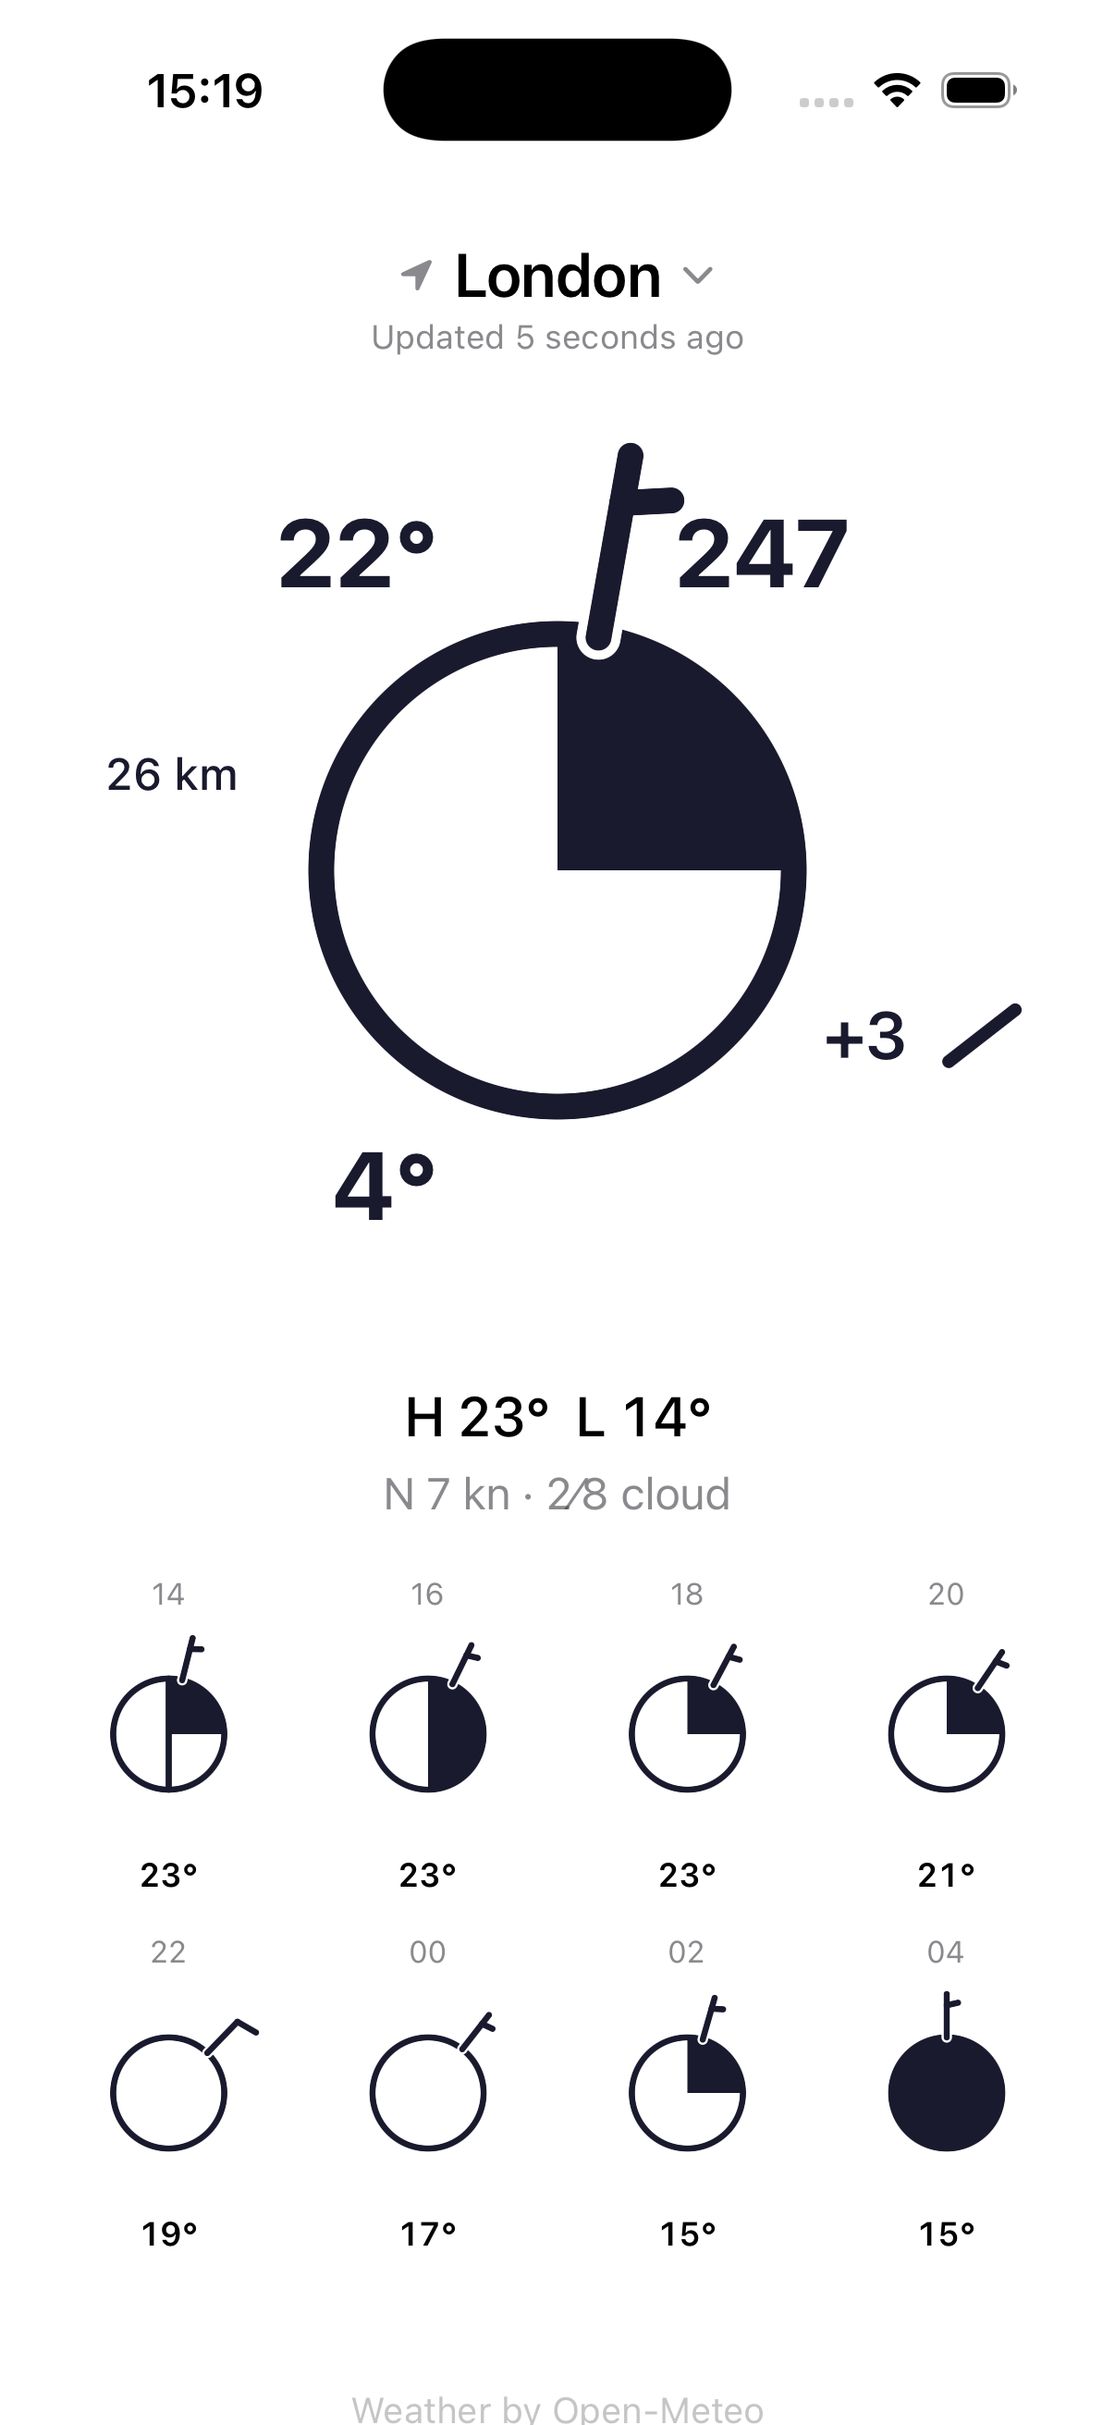
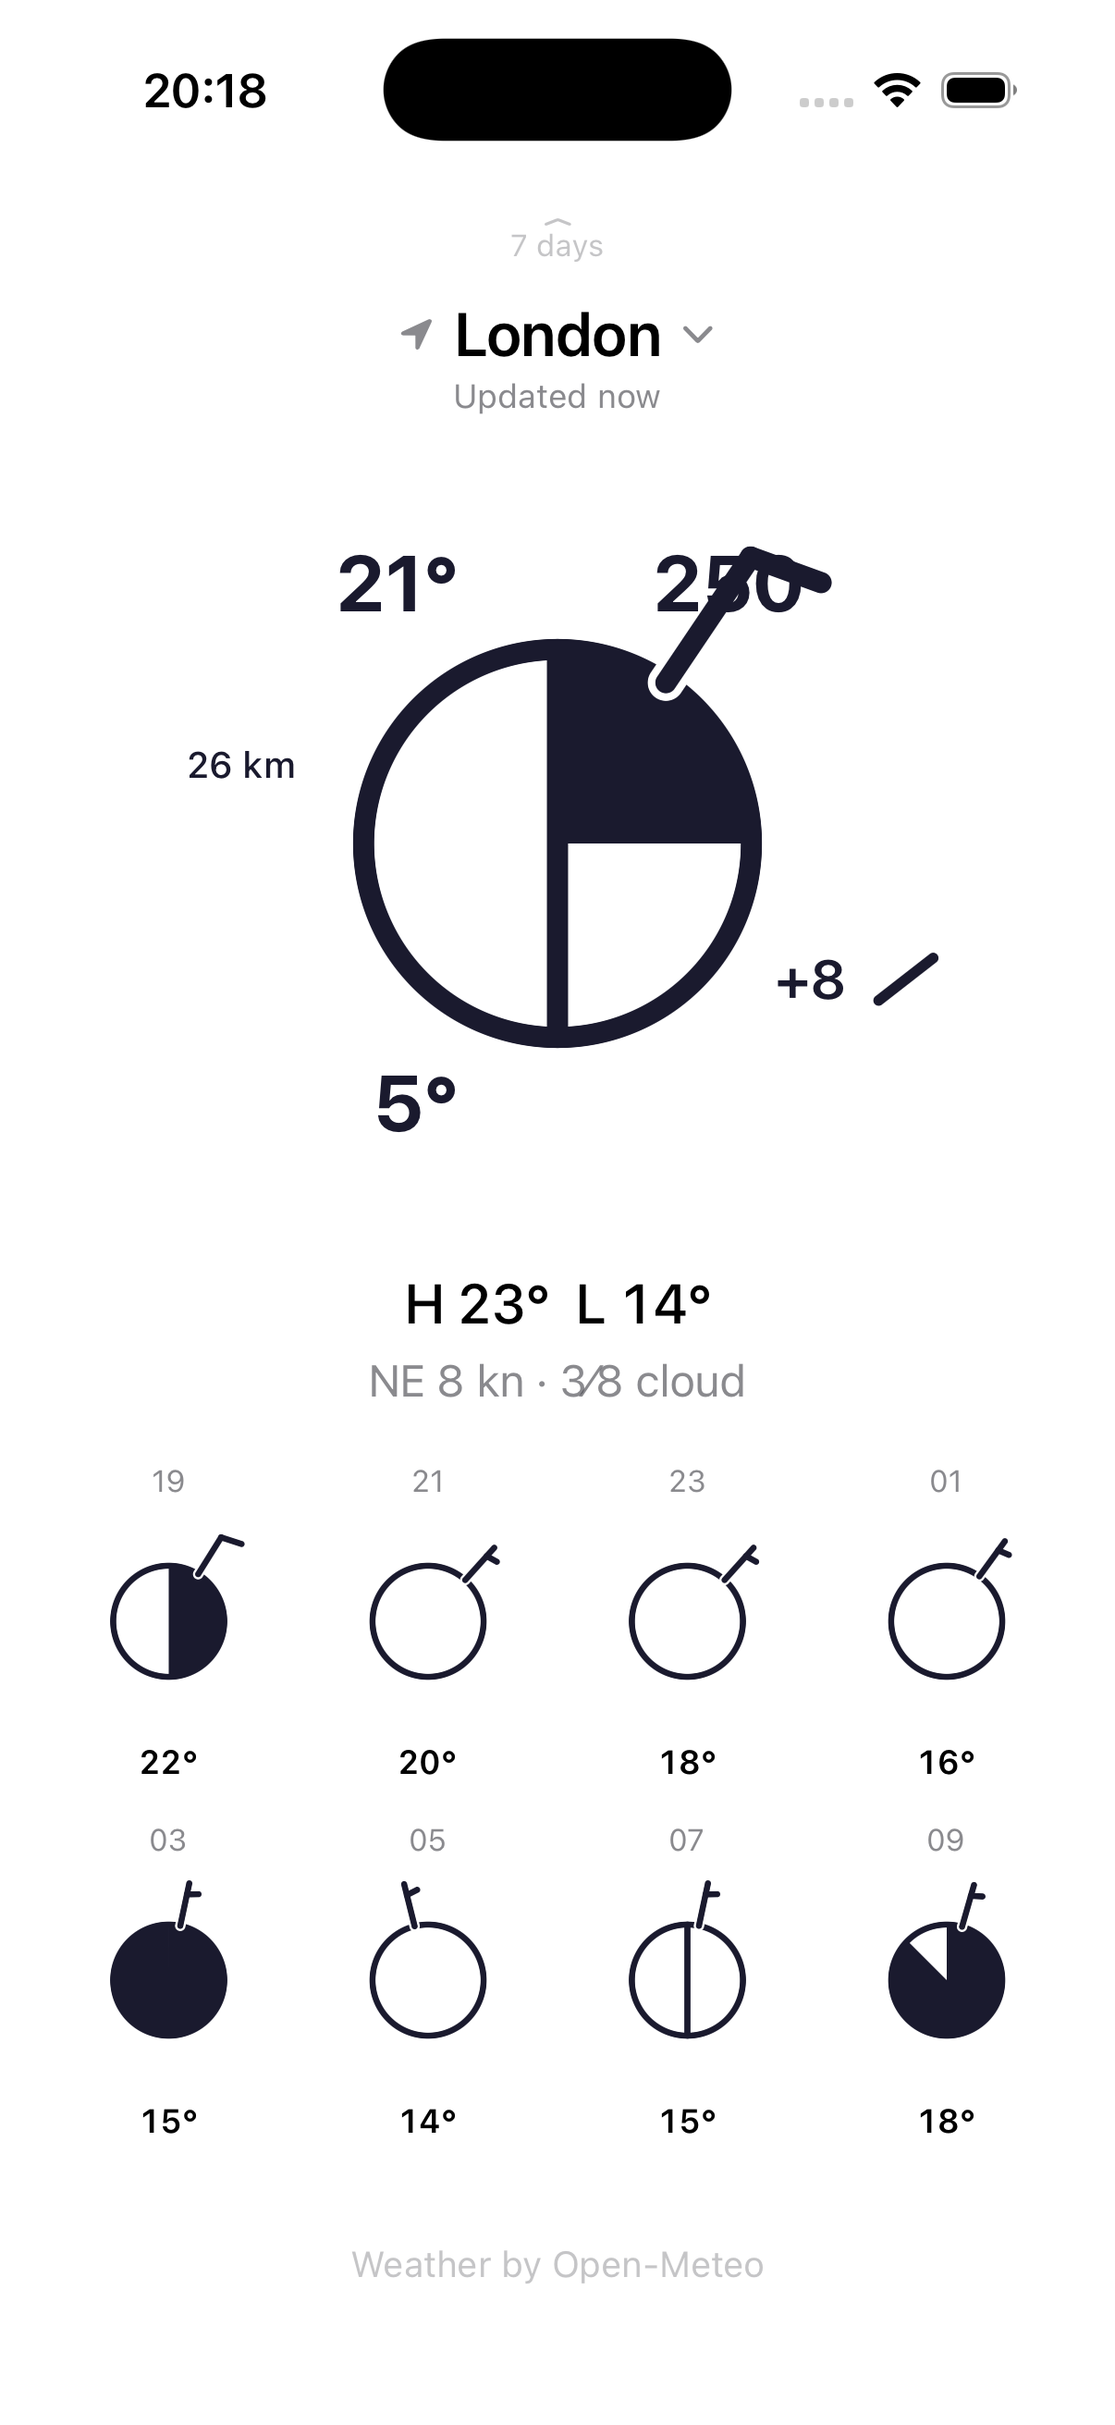
0.4: swipe down for the 7-day outlook
Vertical paging: the multi-day page sits above the main plot — swipe
down to reveal it, up to return (anchored to the main page on launch).
Seven rows, one station circle per day: most-severe weather code for
the ww glyph, mean cloud cover for the oktas, max wind at the dominant
direction for the barb, H/L and precipitation sum in the margins —
severity/mean/max per element, never a flat average.

The paging gesture replaces pull-to-refresh; the "Updated…" caption is
now tappable to force a fetch. Daily block extends to 7 days.

diff --git a/Shared/OpenMeteoClient.swift b/Shared/OpenMeteoClient.swift
@@ -62,12 +62,24 @@ enum OpenMeteoClient {
         }
 
         struct Daily: Decodable {
-            let temperature2mMax: [Double]
-            let temperature2mMin: [Double]
+            let time: [String]
+            let temperature2mMax: [Double?]
+            let temperature2mMin: [Double?]
+            let weatherCode: [Int?]?
+            let windSpeed10mMax: [Double?]?
+            let windDirection10mDominant: [Double?]?
+            let precipitationSum: [Double?]?
+            let cloudCoverMean: [Double?]?
 
             enum CodingKeys: String, CodingKey {
+                case time
                 case temperature2mMax = "temperature_2m_max"
                 case temperature2mMin = "temperature_2m_min"
+                case weatherCode = "weather_code"
+                case windSpeed10mMax = "wind_speed_10m_max"
+                case windDirection10mDominant = "wind_direction_10m_dominant"
+                case precipitationSum = "precipitation_sum"
+                case cloudCoverMean = "cloud_cover_mean"
             }
         }
 
@@ -85,8 +97,8 @@ enum OpenMeteoClient {
             .init(name: "current", value: "weather_code,temperature_2m,cloud_cover,wind_speed_10m,wind_direction_10m,dew_point_2m,pressure_msl,precipitation,precipitation_type,visibility"),
             .init(name: "hourly", value: "pressure_msl,weather_code,temperature_2m,cloud_cover,wind_speed_10m,wind_direction_10m"),
             .init(name: "past_hours", value: "6"),
-            .init(name: "daily", value: "temperature_2m_max,temperature_2m_min"),
-            .init(name: "forecast_days", value: "2"),
+            .init(name: "daily", value: "weather_code,temperature_2m_max,temperature_2m_min,wind_speed_10m_max,wind_direction_10m_dominant,precipitation_sum,cloud_cover_mean"),
+            .init(name: "forecast_days", value: "7"),
             .init(name: "wind_speed_unit", value: "kn"),
             .init(name: "timezone", value: "auto"),
         ]
@@ -105,6 +117,37 @@ enum OpenMeteoClient {
         var change3h: Double?
         var pastCode: Int?
         var slots: [StationObservation.ForecastSlot]?
+
+        // Seven-day outlook from the daily aggregates (see DailyForecast
+        // for the severity/mean/max aggregation rationale).
+        var days: [StationObservation.DailyForecast]?
+        if let daily = decoded.daily {
+            func value(_ array: [Double?]?, _ i: Int) -> Double {
+                guard let array, array.indices.contains(i) else { return 0 }
+                return array[i] ?? 0
+            }
+            var built: [StationObservation.DailyForecast] = []
+            for i in daily.time.indices {
+                guard daily.temperature2mMax.indices.contains(i),
+                      let high = daily.temperature2mMax[i],
+                      daily.temperature2mMin.indices.contains(i),
+                      let low = daily.temperature2mMin[i] else { continue }
+                var code = 0
+                if let codes = daily.weatherCode, codes.indices.contains(i) {
+                    code = codes[i] ?? 0
+                }
+                built.append(StationObservation.DailyForecast(
+                    dateISO: daily.time[i],
+                    highC: high,
+                    lowC: low,
+                    weatherCode: code,
+                    cloudCoverMeanPercent: value(daily.cloudCoverMean, i),
+                    windMaxKnots: value(daily.windSpeed10mMax, i),
+                    windDominantDegrees: value(daily.windDirection10mDominant, i),
+                    precipitationSumMM: value(daily.precipitationSum, i)))
+            }
+            if !built.isEmpty { days = built }
+        }
         if let hourly = decoded.hourly {
             let hourPrefix = String(decoded.current.time.prefix(13))
             if let idx = hourly.time.firstIndex(where: { $0.hasPrefix(hourPrefix) }) {
@@ -171,8 +214,8 @@ enum OpenMeteoClient {
             cloudCoverPercent: decoded.current.cloudCover ?? 0,
             windSpeedKnots: decoded.current.windSpeed10m ?? 0,
             windFromDegrees: decoded.current.windDirection10m ?? 0,
-            todayHighC: decoded.daily?.temperature2mMax.first,
-            todayLowC: decoded.daily?.temperature2mMin.first,
+            todayHighC: decoded.daily?.temperature2mMax.first ?? nil,
+            todayLowC: decoded.daily?.temperature2mMin.first ?? nil,
             dewPointC: decoded.current.dewPoint2m,
             pressureMSLhPa: decoded.current.pressureMsl,
             pressureChange3hPa: change3h,
@@ -181,6 +224,7 @@ enum OpenMeteoClient {
             visibilityMeters: decoded.current.visibility,
             precipitationTypeCode: decoded.current.precipitationType.map { Int($0) },
             precipitationMM: decoded.current.precipitation,
-            forecastSlots: slots)
+            forecastSlots: slots,
+            dailyForecast: days)
     }
 }

diff --git a/WeatherCircles/MultiDayForecastView.swift b/WeatherCircles/MultiDayForecastView.swift
@@ -1,0 +1,111 @@
+import SwiftUI
+
+/// The pull-down page: seven days, one honest circle each — most-severe
+/// weather code, mean cloud cover, max wind with dominant direction.
+struct MultiDayForecastView: View {
+    let days: [StationObservation.DailyForecast]
+
+    var body: some View {
+        VStack(spacing: 6) {
+            Spacer(minLength: 8)
+            Text("Next 7 days")
+                .font(.title3.weight(.semibold))
+            if days.isEmpty {
+                Spacer()
+                Text("Loading…")
+                    .font(.caption)
+                    .foregroundStyle(.secondary)
+                Spacer()
+            } else {
+                Spacer(minLength: 4)
+                ForEach(Array(days.enumerated()), id: \.element.dateISO) { index, day in
+                    dayRow(day, isToday: index == 0)
+                }
+                Spacer(minLength: 8)
+                HStack(spacing: 4) {
+                    Image(systemName: "chevron.compact.down")
+                    Text("now")
+                }
+                .font(.caption2)
+                .foregroundStyle(.tertiary)
+            }
+            Spacer(minLength: 10)
+        }
+        .padding(.horizontal, 24)
+    }
+
+    private func dayRow(_ day: StationObservation.DailyForecast, isToday: Bool) -> some View {
+        HStack(spacing: 12) {
+            Text(isToday ? "Today" : Self.weekday(from: day.dateISO))
+                .font(.callout.weight(isToday ? .semibold : .regular))
+                .frame(width: 56, alignment: .leading)
+            StationPlot(observation: day.asObservation(),
+                        showTemperature: false,
+                        haloColor: Color(uiColor: .systemBackground))
+                .frame(height: 54)
+            Spacer(minLength: 4)
+            if day.precipitationSumMM >= 0.1 {
+                Text(String(format: "%.1f mm", day.precipitationSumMM))
+                    .font(.caption)
+                    .foregroundStyle(.secondary)
+            }
+            Text(day.windText)
+                .font(.caption)
+                .foregroundStyle(.secondary)
+                .frame(width: 62, alignment: .trailing)
+            Text("\(Int(day.highC.rounded()))°")
+                .font(.callout.weight(.semibold))
+                .monospacedDigit()
+                .frame(width: 36, alignment: .trailing)
+            Text("\(Int(day.lowC.rounded()))°")
+                .font(.callout)
+                .foregroundStyle(.secondary)
+                .monospacedDigit()
+                .frame(width: 32, alignment: .trailing)
+        }
+    }
+
+    private static let isoDay: DateFormatter = {
+        let formatter = DateFormatter()
+        formatter.dateFormat = "yyyy-MM-dd"
+        formatter.timeZone = TimeZone(identifier: "UTC")
+        return formatter
+    }()
+
+    private static let weekdayOut: DateFormatter = {
+        let formatter = DateFormatter()
+        formatter.dateFormat = "EEE"
+        formatter.timeZone = TimeZone(identifier: "UTC")
+        return formatter
+    }()
+
+    /// Weekday from the location-local "yyyy-MM-dd" — parsed in UTC so no
+    /// device-timezone drift can shift the date.
+    static func weekday(from iso: String) -> String {
+        guard let date = isoDay.date(from: iso) else { return iso }
+        return weekdayOut.string(from: date)
+    }
+}
+
+private func previewDays() -> [StationObservation.DailyForecast] {
+    let codes = [3, 61, 80, 95, 2, 71, 0]
+    let precip: [Double] = [0, 2.4, 5.1, 12.0, 0, 1.2, 0]
+    var days: [StationObservation.DailyForecast] = []
+    for i in 0..<7 {
+        let date = String(format: "2026-07-%02d", 19 + i)
+        let high: Double = Double(24 - i)
+        let low: Double = Double(14 - i)
+        let cloud: Double = Double(i) * 14.0
+        let wind: Double = Double(8 + i * 4)
+        let direction: Double = Double(i) * 50.0
+        days.append(StationObservation.DailyForecast(
+            dateISO: date, highC: high, lowC: low, weatherCode: codes[i],
+            cloudCoverMeanPercent: cloud, windMaxKnots: wind,
+            windDominantDegrees: direction, precipitationSumMM: precip[i]))
+    }
+    return days
+}
+
+#Preview {
+    MultiDayForecastView(days: previewDays())
+}

diff --git a/WeatherCircles/ContentView.swift b/WeatherCircles/ContentView.swift
@@ -12,30 +12,22 @@ struct ContentView: View {
     @State private var refreshTask: Task<Void, Never>?
 
     var body: some View {
+        // Two vertically paged screens: swipe down from the main plot for
+        // the 7-day outlook, swipe up to come back. (This gesture replaces
+        // pull-to-refresh — tap the "Updated…" caption to force a fetch.)
         ScrollView {
-            VStack(spacing: 12) {
-                header
-                StationPlot(observation: observation ?? .sample,
-                            fullStationModel: true,
-                            haloColor: Color(uiColor: .systemBackground))
-                    .padding(.horizontal, 28)
-                    .opacity(observation == nil ? 0.25 : 1)
-                readouts
-                if let slots = observation?.forecastSlots, !slots.isEmpty {
-                    ForecastRow(slots: slots)
-                        .padding(.horizontal, 20)
-                        .padding(.top, 8)
-                }
-                Spacer(minLength: 24)
-                Link("Weather by Open-Meteo", destination: URL(string: "https://open-meteo.com")!)
-                    .font(.footnote)
-                    .foregroundStyle(.tertiary)
+            VStack(spacing: 0) {
+                MultiDayForecastView(days: observation?.dailyForecast ?? [])
+                    .frame(maxWidth: 560)
+                    .frame(maxWidth: .infinity)
+                    .containerRelativeFrame(.vertical)
+                mainPage
+                    .containerRelativeFrame(.vertical)
             }
-            .padding(.vertical, 24)
-            .frame(maxWidth: 560)          // keeps the plot sane on iPad
-            .frame(maxWidth: .infinity)
         }
-        .refreshable { await refresh() }
+        .scrollTargetBehavior(.paging)
+        .defaultScrollAnchor(.bottom)
+        .scrollIndicators(.hidden)
         .task { await refresh() }
         .onChange(of: gpsFix) { _, _ in
             // A follow-mode location fix arrived (or moved).
@@ -63,6 +55,36 @@ struct ContentView: View {
                 refreshNow()
             }
         }
+    }
+
+    private var mainPage: some View {
+        VStack(spacing: 12) {
+            VStack(spacing: 0) {
+                Image(systemName: "chevron.compact.up")
+                Text("7 days")
+            }
+            .font(.caption2)
+            .foregroundStyle(.tertiary)
+            header
+            StationPlot(observation: observation ?? .sample,
+                        fullStationModel: true,
+                        haloColor: Color(uiColor: .systemBackground))
+                .padding(.horizontal, 28)
+                .opacity(observation == nil ? 0.25 : 1)
+            readouts
+            if let slots = observation?.forecastSlots, !slots.isEmpty {
+                ForecastRow(slots: slots)
+                    .padding(.horizontal, 20)
+                    .padding(.top, 8)
+            }
+            Spacer(minLength: 12)
+            Link("Weather by Open-Meteo", destination: URL(string: "https://open-meteo.com")!)
+                .font(.footnote)
+                .foregroundStyle(.tertiary)
+        }
+        .padding(.vertical, 16)
+        .frame(maxWidth: 560)          // keeps the plot sane on iPad
+        .frame(maxWidth: .infinity)
     }
 
     private var gpsFix: String {
@@ -102,9 +124,12 @@ struct ContentView: View {
             }
             .buttonStyle(.plain)
             if let observation {
-                Text("Updated \(observation.fetchedAt.formatted(.relative(presentation: .named)))")
-                    .font(.caption)
-                    .foregroundStyle(.secondary)
+                Button { refreshNow() } label: {
+                    Text("Updated \(observation.fetchedAt.formatted(.relative(presentation: .named)))")
+                        .font(.caption)
+                        .foregroundStyle(.secondary)
+                }
+                .buttonStyle(.plain)
             } else {
                 Text(location.denied && selectedCity == nil
                      ? "Location off — showing London" : "Loading…")

diff --git a/Shared/StationObservation.swift b/Shared/StationObservation.swift
@@ -70,6 +70,41 @@ struct StationObservation: Codable, Equatable {
         }
     }
 
+    /// Seven-day outlook. Aggregation philosophy: discrete weather takes
+    /// the day's *most severe* code (Open-Meteo's daily semantics — the
+    /// same instinct as the TRMNL slot rule), cloud cover takes the
+    /// *mean* (an okta is an areal average by nature), wind takes the
+    /// day's *max* speed with the dominant direction — a mean barb would
+    /// lie about gusty days. Never a flat average of everything: that
+    /// washes morning-fog-then-thunderstorm into meaningless drizzle.
+    var dailyForecast: [DailyForecast]?
+
+    struct DailyForecast: Codable, Equatable {
+        var dateISO: String      // "2026-07-19", location-local
+        var highC: Double
+        var lowC: Double
+        var weatherCode: Int
+        var cloudCoverMeanPercent: Double
+        var windMaxKnots: Double
+        var windDominantDegrees: Double
+        var precipitationSumMM: Double
+
+        /// A minimal observation so StationPlot can draw the day circle.
+        func asObservation() -> StationObservation {
+            StationObservation(
+                fetchedAt: .distantPast, latitude: 0, longitude: 0,
+                temperatureC: highC, weatherCode: weatherCode,
+                cloudCoverPercent: cloudCoverMeanPercent,
+                windSpeedKnots: windMaxKnots,
+                windFromDegrees: windDominantDegrees)
+        }
+
+        var windText: String {
+            windMaxKnots < 1 ? "Calm"
+                : "\(StationObservation.compassPoint(for: windDominantDegrees)) \(Int(windMaxKnots.rounded()))"
+        }
+    }
+
     /// Cloud cover in eighths, as the Python does it: `round(cloud / 12.5)`.
     var oktas: Int {
         min(8, max(0, Int((cloudCoverPercent / 12.5).rounded())))
@@ -193,12 +228,14 @@ struct StationObservation: Codable, Equatable {
         return "\(Int((v / 1000).rounded())) km"
     }
 
-    var compassPoint: String {
+    static func compassPoint(for degrees: Double) -> String {
         let points = ["N", "NNE", "NE", "ENE", "E", "ESE", "SE", "SSE",
                       "S", "SSW", "SW", "WSW", "W", "WNW", "NW", "NNW"]
-        let index = Int((windFromDegrees / 22.5).rounded()) % 16
+        let index = Int((degrees / 22.5).rounded()) % 16
         return points[(index + 16) % 16]
     }
+
+    var compassPoint: String { Self.compassPoint(for: windFromDegrees) }
 
     var windText: String {
         windSpeedKnots < 1 ? "Calm" : "\(compassPoint) \(Int(windSpeedKnots.rounded())) kn"

diff --git a/DEVELOPMENT.md b/DEVELOPMENT.md
@@ -191,3 +191,23 @@ xcodebuild -exportArchive -archivePath /tmp/WeatherCircles.xcarchive \
 
 `manageAppVersionAndBuildNumber` in the export options lets App Store
 Connect bump the build number on repeat uploads of the same version.
+
+## 0.4: the 7-day page
+
+Swipe down from the main plot for the seven-day outlook; swipe up to
+come back (vertical paging). The paging gesture replaced
+pull-to-refresh — tap the "Updated…" caption to force a fetch; the app
+also refreshes on foreground and on any location/city change.
+
+One circle per day, aggregated honestly rather than averaged:
+
+- **ww glyph** — the day's *most severe* weather code (Open-Meteo's
+  daily semantics; the same instinct as the TRMNL slot rule).
+- **Okta fill** — *mean* cloud cover. An okta is an areal average by
+  nature, so the mean is the one place averaging is true to the form.
+- **Barb** — the day's *max* wind at the *dominant* direction. A mean
+  barb would lie about gusty days.
+- **Margins** — H/L and the precipitation sum, RRR-style.
+
+Never a flat average of everything: that washes a
+morning-fog-then-thunderstorm day into meaningless drizzle.
